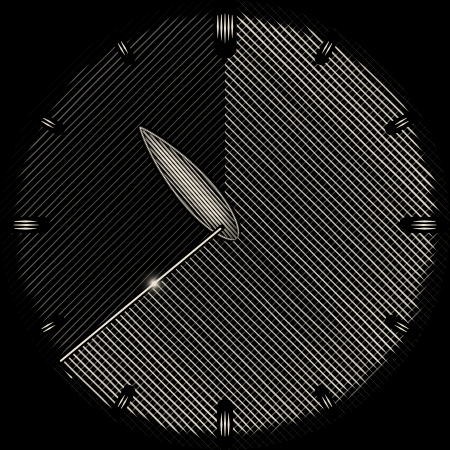
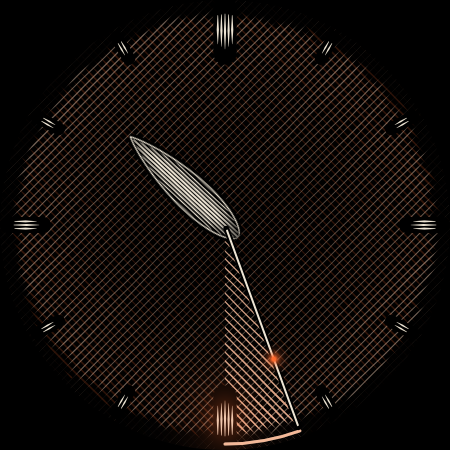
Crosshatch: count down to :00 and :30 with a warm-up and flash
The crosshatched wedge now runs from the minute line to the next half-hour
gate. Over the last five minutes the board warms to the accent colour and
pulses faster; at :00 and :30 it flashes and fades over two minutes. 12 and 6
become gate marks, and ambient keeps a rim countdown arc.

The web preview now honours the colour index in tintColor, so accent-tinted
images preview in their own colour.

Claude-Session: https://claude.ai/code/session_01BGeKjr83XVEdQnsKGYJxv6

Changed region(s): [[0.0311, 0.0311, 0.9956, 1.0]]

diff --git a/preview/render.js b/preview/render.js
@@ -96,13 +96,16 @@ export async function prepare(face, { style, palette } = {}) {
     configuration[face.palette.id] = selected;
     const option = [...doc.querySelectorAll('UserConfigurations > ColorConfiguration > ColorOption')]
       .find(el => el.getAttribute('id') === selected);
-    const ink = option.getAttribute('colors').split(/\s+/)[1];
+    const colors = option.getAttribute('colors').split(/\s+/);
     for (const part of doc.querySelectorAll('Scene PartImage[tintColor]')) {
       const image = part.querySelector(':scope > Image');
       const source = image.getAttribute('resource');
-      const tinted = `${source}_palette_${selected}`;
+      // Honour the colour index in [CONFIGURATION.<id>.<n>]; default to the ink (1).
+      const match = part.getAttribute('tintColor').match(/\[CONFIGURATION\.[^.\]]+\.(\d+)\]/);
+      const index = match ? Number(match[1]) : 1;
+      const tinted = `${source}_palette_${selected}_${index}`;
       if (!face.tinted.has(tinted)) {
-        face.tinted.set(tinted, await tintImage(face.assets.get(source), ink));
+        face.tinted.set(tinted, await tintImage(face.assets.get(source), colors[index] || colors[1]));
       }
       image.setAttribute('resource', tinted);
       assets.set(tinted, face.tinted.get(tinted));

diff --git a/faces/crosshatch/generate_xml.py b/faces/crosshatch/generate_xml.py
@@ -1,21 +1,22 @@
-"""Author the Crosshatch face: a scratchboard engraving that shades itself in.
+"""Author the Crosshatch face: a scratchboard engraving built around the half hour.
 
-Writes watchface.xml and its PNG assets. Nothing here runs on the watch; all
-motion is WFF transforms in the canonical XML.
+Writes watchface.xml, strings.xml and the PNG assets. Nothing here runs on the
+watch; all motion is WFF transforms in the canonical XML.
 
 Layers, bottom to top
 ---------------------
-ground        one family of fine "/" hatching across the whole dial (tinted)
-sector        a perpendicular "\" family, revealed by a pie-shaped Arc mask
-              from 12 to the minute. Even hours shade in clockwise, odd hours
-              scrape it back out, so the dial never jumps at the hour.
-reserve       black cut-outs under the indices so they sit clean on the board
-indices       twelve bundles of short radial strokes (tinted)
-hour          a lance cut out of the board (black shadow) holding swelling
-              engraved strokes along its axis (tinted), rotated to the hour
-minute        a hairline from centre to rim, carved by a black under-stroke
-nib           a small glowing point that runs out along the minute line once
-              a minute, as if scratching the next stroke (accent colour)
+ground        one family of fine "/" hatching across the whole dial (ink)
+countdown     a perpendicular "\\" family from the minute line forward to the
+              next :00 or :30, via an Arc mask; it narrows to nothing at the gate
+warmup        last 5 minutes: the whole board crosshatches in the accent colour,
+              pulsing faster as the gate nears
+runup         the remaining wedge in the accent colour, same heat and pulse
+burst         at :00 and :30, full accent crosshatch fading over 2 minutes
+indices       stroke bundles on black reserves; 12 and 6 are the gates
+gate          accent glow on the gate being approached
+rim           a countdown arc at the rim (also the ambient countdown)
+hour          a lance cut out of the board with swelling engraved strokes
+minute        a carved hairline, with a nib that runs out along it each minute
 
 Every hatch line is computed analytically per pixel at 3x and downsampled, with
 slight hand wobble, per-line weight jitter and ragged tapered ends at the rim.
@@ -36,19 +37,31 @@ RIM = 214                                # hatch lines end near this radius
 
 MINUTE = '([MINUTE] * 6 + [SECOND] * 0.1)'
 HOUR = '(([HOUR_0_23] % 12) * 30 + [MINUTE] * 0.5)'
-ODD = '([HOUR_0_23] % 2 == 1)'
 SECOND_FRAC = '(([SECOND] + [MILLISECOND] / 1000) / 60)'
+# Minutes into the current half hour (0..30) and minutes left until the next
+# :00 or :30 (30..0). The whole face is organised around that countdown.
+INTO = '(([MINUTE] % 30) + [SECOND] / 60)'
+LEFT = f'(30 - {INTO})'
+FIRST_HALF = '([MINUTE] &lt; 30)'
+WARN_MINUTES = 5                         # the run-up heats over the last 5 min
+BURST_MINUTES = 2                        # the :00/:30 flash fades over 2 min
+# 0 at five minutes left, 1 at the gate, eased so the last two minutes surge.
+HEAT = f'pow(clamp(({WARN_MINUTES} - {LEFT}) / {WARN_MINUTES}, 0, 1), 1.25)'
+# A pulse that starts slow and quickens toward the gate (radians per second).
+PHASE = '(([SECOND] + [MILLISECOND] / 1000) * (3.14159 + 9.4 * ' + HEAT + '))'
+PULSE = f'(0.62 + 0.38 * sin({PHASE}))'
+BURST = f'pow(clamp(1 - {INTO} / {BURST_MINUTES}, 0, 1), 2)'
 
 NIB_INNER, NIB_OUTER = 16, 206           # nib travel along the minute line
 NIB_SIZE = 28
 
-# Palettes: background, ink, nib accent.
+# Palettes: background, ink, heat accent (nib, run-up and :00/:30 flash).
 PALETTES = [
-    ('scratchboard', 'palette_scratchboard', '#FF000000 #FFEDE4D3 #FFFF8A4C'),
-    ('silverpoint', 'palette_silverpoint', '#FF000000 #FFC8D2DC #FFFFFFFF'),
-    ('sepia', 'palette_sepia', '#FF000000 #FFD8A66A #FFFFE3BC'),
-    ('cyanotype', 'palette_cyanotype', '#FF000000 #FF73B9FF #FFE4F3FF'),
-    ('vermilion', 'palette_vermilion', '#FF000000 #FFFF6A55 #FFFFD8CC'),
+    ('scratchboard', 'palette_scratchboard', '#FF000000 #FFEDE4D3 #FFFF6A2E'),
+    ('silverpoint', 'palette_silverpoint', '#FF000000 #FFC8D2DC #FFFFB830'),
+    ('sepia', 'palette_sepia', '#FF000000 #FFD8A66A #FFFF4A3A'),
+    ('cyanotype', 'palette_cyanotype', '#FF000000 #FF73B9FF #FFFFAE3A'),
+    ('vermilion', 'palette_vermilion', '#FF000000 #FFFF6A55 #FFFFE066'),
 ]
 INK = '[CONFIGURATION.palette.1]'
 ACCENT = '[CONFIGURATION.palette.2]'
@@ -143,8 +156,8 @@ def indices():
         ang = math.radians(h * 30)
         ux, uy = math.sin(ang), -math.cos(ang)       # radial (12 o'clock = up)
         tx, ty = -uy, ux                              # tangential
-        if h == 0:
-            n, r0, r1, wmax = 5, 182, 211, 2.0
+        if h in (0, 6):                           # the :00 and :30 gates
+            n, r0, r1, wmax = 5, 176, 211, 2.2
         elif h % 3 == 0:
             n, r0, r1, wmax = 3, 186, 211, 2.0
         else:
@@ -203,6 +216,22 @@ def hour_hand():
     return downsample(ink), downsample(shadow)
 
 
+def gate():
+    """Glow and stroke bundle for the 12 o'clock gate (rotated to 6 as needed)."""
+    x, y = grid()
+    gx, gy = C, C - 194
+    r = np.hypot(x - gx, (y - gy) * 0.8)
+    glow = 0.85 * np.exp(-(r / 18) ** 2) + 0.4 * np.exp(-(r / 42) ** 2)
+    strokes = np.zeros_like(x)
+    n, sp = 5, 3.6
+    for i in range(n):
+        off = (i - (n - 1) / 2) * sp
+        shrink = abs(i - (n - 1) / 2) * 2.5
+        a0, a1 = 176 + shrink, 211 - shrink * 0.3
+        strokes = np.maximum(strokes, capsule(x, y, C + off, C - a0, C + off, C - a1, 2.4, 1.2))
+    return downsample(np.maximum(glow, strokes))
+
+
 def nib():
     n = NIB_SIZE * SS
     c = (np.arange(n) + 0.5) / SS - NIB_SIZE / 2
@@ -226,6 +255,7 @@ def write_assets():
     save('crosshatch_hour', hand)
     save('crosshatch_hour_shadow', shadow, color=(0, 0, 0))
     save('crosshatch_nib', nib())
+    save('crosshatch_gate', gate())
 
 
 def xml():
@@ -234,11 +264,42 @@ def xml():
         for pid, label, colors in PALETTES)
     nib_r = f'({NIB_INNER} + {NIB_OUTER - NIB_INNER} * {SECOND_FRAC})'
     full = 'x="0" y="0" width="450" height="450"'
-    return f'''<?xml version="1.0" encoding="utf-8"?>
+    gate_end = f'({FIRST_HALF} ? 180 : 360)'
+
+    def wedge(name, tint, alpha=None, ambient='0'):
+        """The countdown wedge: sector hatch from the minute line to the gate."""
+        alpha_tf = f'\n      <Transform target="alpha" value="{alpha}" />' if alpha else ''
+        return f"""    <Group {full} name="{name}Ambient">
+    <Variant mode="AMBIENT" target="alpha" value="{ambient}" />
+    <Group {full} name="{name}">{alpha_tf}
+      <PartImage {full} renderMode="SOURCE" tintColor="{tint}"><Image resource="crosshatch_sector" /></PartImage>
+      <Group {full} renderMode="MASK" name="{name}Mask">
+        <PartDraw {full}>
+          <Arc centerX="225" centerY="225" width="226" height="226" startAngle="0" endAngle="180">
+            <Transform target="startAngle" value="{MINUTE}" />
+            <Transform target="endAngle" value="{gate_end}" />
+            <Stroke color="#FFFFFFFF" thickness="228" cap="BUTT" />
+          </Arc>
+        </PartDraw>
+      </Group>
+    </Group>
+    </Group>"""
+
+    def rim_arc(name, color, alpha=None):
+        alpha_tf = f'\n        <Transform target="alpha" value="{alpha}" />' if alpha else ''
+        return f"""      <PartDraw {full} name="{name}">{alpha_tf}
+        <Arc centerX="225" centerY="225" width="438" height="438" startAngle="0" endAngle="180">
+          <Transform target="startAngle" value="{MINUTE}" />
+          <Transform target="endAngle" value="{gate_end}" />
+          <Stroke color="{color}" thickness="3" cap="ROUND" />
+        </Arc>
+      </PartDraw>"""
+
+    return f"""<?xml version="1.0" encoding="utf-8"?>
 <!-- Generated by generate_xml.py; edit that instead. -->
 <WatchFace width="450" height="450" clipShape="CIRCLE">
   <Metadata key="CLOCK_TYPE" value="ANALOG" />
-  <Metadata key="PREVIEW_TIME" value="10:38:24" />
+  <Metadata key="PREVIEW_TIME" value="10:26:40" />
   <UserConfigurations>
     <ColorConfiguration id="palette" displayName="palette" defaultValue="{PALETTES[0][0]}">
 {options}
@@ -252,27 +313,58 @@ def xml():
       <PartImage {full} tintColor="{INK}"><Image resource="crosshatch_ground" /></PartImage>
     </Group>
 
-    <!-- Minutes: a perpendicular "\\" family revealed from 12 to the minute.
-         Even hours shade in clockwise; odd hours scrape back out. -->
-    <Group {full} name="sector">
+    <!-- Countdown: crosshatch from the minute line forward to the next
+         :00 or :30. It narrows to nothing as the meeting arrives. -->
+{wedge('countdown', INK)}
+
+    <!-- Warm-up: over the last {WARN_MINUTES} minutes the whole board warms to the
+         accent colour, pulsing faster as the gate closes, building to the flash. -->
+    <Group {full} name="warmupAmbient">
       <Variant mode="AMBIENT" target="alpha" value="0" />
-      <PartImage {full} renderMode="SOURCE" tintColor="{INK}"><Image resource="crosshatch_sector" /></PartImage>
-      <Group {full} renderMode="MASK" name="sectorMask">
-        <PartDraw {full}>
-          <Arc centerX="225" centerY="225" width="226" height="226" startAngle="0" endAngle="0">
-            <Transform target="startAngle" value="({ODD} ? {MINUTE} : 0)" />
-            <Transform target="endAngle" value="({ODD} ? 360 : {MINUTE})" />
-            <Stroke color="#FFFFFFFF" thickness="228" cap="BUTT" />
-          </Arc>
-        </PartDraw>
+      <Group {full} name="warmup">
+        <Transform target="alpha" value="255 * 0.85 * {HEAT} * {PULSE}" />
+        <PartImage {full} tintColor="{ACCENT}"><Image resource="crosshatch_ground" /></PartImage>
+        <PartImage {full} tintColor="{ACCENT}"><Image resource="crosshatch_sector" /></PartImage>
       </Group>
     </Group>
 
-    <!-- Indices: engraved stroke bundles on clean black reserves. -->
+    <!-- Run-up: over the last {WARN_MINUTES} minutes the remaining wedge heats to
+         the accent colour and pulses faster as the gate closes. -->
+{wedge('runup', ACCENT, alpha=f'255 * {HEAT} * {PULSE}')}
+
+    <!-- Gate flash: at :00 and :30 the whole board crosshatches in the
+         accent colour and fades over {BURST_MINUTES} minutes. -->
+    <Group {full} name="burstAmbient">
+      <Variant mode="AMBIENT" target="alpha" value="0" />
+      <Group {full} name="burst">
+        <Transform target="alpha" value="255 * {BURST}" />
+        <PartImage {full} tintColor="{ACCENT}"><Image resource="crosshatch_ground" /></PartImage>
+        <PartImage {full} tintColor="{ACCENT}"><Image resource="crosshatch_sector" /></PartImage>
+      </Group>
+    </Group>
+
+    <!-- Indices: engraved stroke bundles on clean black reserves.
+         12 and 6 are the larger :00 and :30 gates. -->
     <Group {full} name="indices">
       <Variant mode="AMBIENT" target="alpha" value="150" />
       <PartImage {full}><Image resource="crosshatch_reserve" /></PartImage>
       <PartImage {full} tintColor="{INK}"><Image resource="crosshatch_indices" /></PartImage>
+    </Group>
+
+    <!-- The gate being approached glows with the run-up. -->
+    <Group {full} name="gateAmbient">
+      <Variant mode="AMBIENT" target="alpha" value="0" />
+      <Group {full} name="gate" pivotX="0.5" pivotY="0.5">
+        <Transform target="angle" value="({FIRST_HALF} ? 180 : 0)" />
+        <Transform target="alpha" value="255 * {HEAT} * {PULSE}" />
+        <PartImage {full} tintColor="{ACCENT}"><Image resource="crosshatch_gate" /></PartImage>
+      </Group>
+    </Group>
+
+    <!-- Rim countdown arc: also the whole countdown in ambient. -->
+    <Group {full} name="rim">
+{rim_arc('rimInk', INK)}
+{rim_arc('rimHeat', ACCENT, alpha=f'255 * clamp({HEAT} * 1.4, 0, 1)')}
     </Group>
 
     <!-- Hour: a lance cut from the board, shaded with swelling strokes. -->
@@ -306,7 +398,7 @@ def xml():
 
   </Scene>
 </WatchFace>
-'''
+"""
 
 
 def strings():

diff --git a/faces/crosshatch/notes.md b/faces/crosshatch/notes.md
@@ -7,27 +7,37 @@ hour and spreading with the minute) dull. This rewrite keeps its idea that
 time is told by perpendicular lines and turns it into a scratchboard
 engraving.
 
-## Reading the dial
+## Half-hour countdown (Patrick's follow-up)
 
-- **Ground:** the whole board is ruled in fine `/` hatching, a little heavier
-  toward the rim.
-- **Minutes:** a perpendicular `\` hatch fills the sector between 12 and the
-  minute line, so the passed part of the hour is crosshatched and brighter.
-  Even hours shade in clockwise. Odd hours scrape it back out (the hatch sits
-  ahead of the minute line), so the dial never jumps at :00.
-- **Minute hand:** a 2px hairline carved into the board by a 6px black
-  under-stroke.
-- **Hour hand:** a lance (tail -18, tip 130) cut out of the board, outlined,
-  shaded with strokes along its axis that swell toward the centre line and
-  thin at the ends.
-- **Seconds:** a nib, a small glow in the palette's accent, runs from r=16 to
-  r=206 along the minute line once a minute, as if scratching the next stroke.
-- **Indices:** bundles of short radial strokes on black reserves: five at 12,
-  three at the quarters, two elsewhere.
-- **Inks:** Scratchboard (ivory, ember nib, default), Silverpoint, Sepia,
-  Cyanotype, Vermilion. `[CONFIGURATION.palette.1]` is the ink, `.2` the nib.
-- **Ambient:** ground, sector and nib hidden. The lance, hairline and dimmed
-  indices remain.
+Patrick wanted :00 and :30 to have energy, so he can tell at a glance whether
+a meeting is about to start. The progress-through-the-hour sector (fill in
+even hours, scrape in odd) was replaced by a countdown to the next gate.
+
+- **Countdown wedge:** crosshatch from the minute line forward to the next
+  :00 (12) or :30 (6). It is at most half the dial and narrows to nothing at
+  the gate. A rim arc traces the same span.
+- **Warm-up (last 5 min):** the whole board crosshatches in the accent colour
+  with alpha `0.85 * heat * pulse`. `heat = clamp((5 - left)/5, 0, 1)^1.25`.
+  `pulse = 0.62 + 0.38 sin(t * (π + 9.4 heat))`, so it breathes about every
+  2 s at five minutes out and about 2 Hz at the gate. The remaining wedge, the
+  rim arc and the approaching gate mark (12 or 6) heat up too.
+- **Flash:** at :00 and :30 the full accent crosshatch shows at full
+  strength and fades as `(1 - into/2)^2` over two minutes, so a start you
+  missed is still obvious.
+- **Gates:** 12 and 6 are five-stroke bundles; 3 and 9 three; the rest two.
+- **Hour hand:** a lance (tail -18, tip 130) cut from the board, outlined and
+  shaded with strokes that swell toward its axis.
+- **Minute hand:** a 2px hairline carved by a 6px black under-stroke.
+- **Seconds:** an accent nib runs from r=16 to r=206 along the minute line
+  once a minute.
+- **Inks** (ink / accent): Scratchboard ivory/ember (default), Silverpoint
+  grey/amber, Sepia tan/red, Cyanotype blue/amber, Vermilion red/yellow.
+  `[CONFIGURATION.palette.1]` is the ink and `.2` the accent.
+- **Ambient:** hatching, warm-up, flash, gate glow and nib hidden. The lance,
+  hairline, dimmed indices and the rim countdown arc remain; the arc's accent
+  overlay shows the last five minutes. Animated layers are nested inside a
+  parent Group that carries the ambient Variant, because a Transform on alpha
+  overrides a Variant on the same element.
 
 ## How it is made
 
@@ -36,13 +46,17 @@ engraving.
 at 3x and downsampled, with slight wobble, per-line weight and tone jitter,
 and ragged tapered ends near r=214.
 
-The sector mask is a `PartDraw` `Arc` (radius 113, stroke 228, butt caps) in a
-`renderMode="MASK"` group over the sector hatch image. Its `startAngle` and
-`endAngle` Transforms are `odd ? minute : 0` and `odd ? 360 : minute`.
+The wedge mask is a `PartDraw` `Arc` (radius 113, stroke 228, butt caps) in a
+`renderMode="MASK"` group over the sector hatch image. `startAngle` is the
+minute angle; `endAngle` is `MINUTE < 30 ? 180 : 360`.
+
+The web preview previously tinted every `tintColor` image with palette colour
+1. `preview/render.js` now honours the index in `[CONFIGURATION.id.n]`, so
+accent layers preview correctly.
 
 The XML validates against the official WFF v4 XSD (XSD 1.1, via
-`xmlschema`). Previews were checked in the web renderer at 11:59:50, 12:00:10
-and 12:59:30 for continuity across the hour.
+`xmlschema`). Previews were checked through a full run-up (10:08 to 10:31:30, see
+`previews/sequence.png`), at the :00 gate, and in ambient.
 
 ## Watch risks to check first
 
@@ -50,4 +64,7 @@ and 12:59:30 for continuity across the hour.
   Radial Moiré only mask with rotating images. If the Arc mask misbehaves, swap
   it for two half-disc mask images, one per half of the dial.
 - A 228px stroke on a 113px-radius arc must reach the centre without a hole.
-- Nib smoothness relies on `[MILLISECOND]` (as Radar's sweep does).
+- Nib smoothness and the pulse rely on `[MILLISECOND]` (as Radar's sweep does).
+- Whether the warm-up pulse is energetic without being annoying on the wrist.
+  `WARN_MINUTES`, the pulse rate and the 0.85 strength are constants at the
+  top of the generator.
